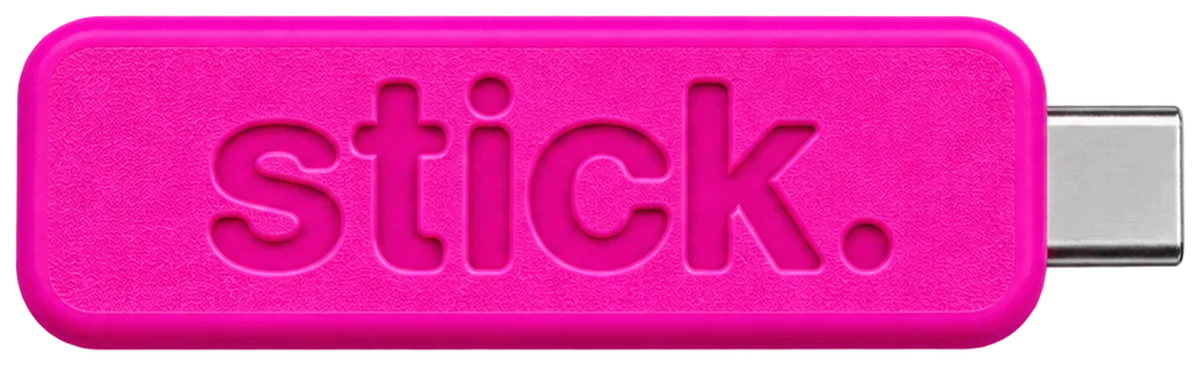
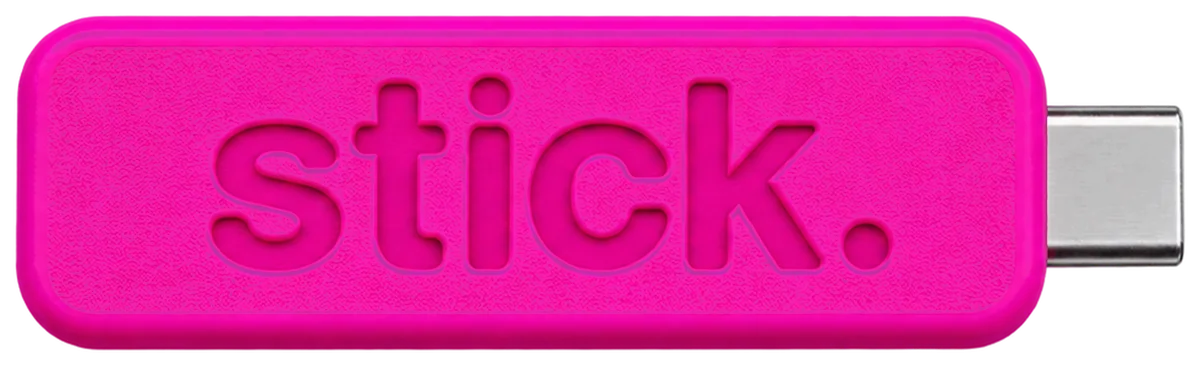
Darken the highlights on the pricing key photo
Re-renders stick-key.webp from the full-resolution cutout with the pink
body's highlights pulled down: pixels brighter than the body's ~77th
percentile of luminance keep 40% of their excess over that level (the
brightest spots go from 0.53 to about 0.41), with some saturation restored
so they read as deeper pink rather than washed out. Mid-tones and shadows
are untouched, so the embossed lettering keeps its depth; the grey plug is
excluded by hue and saturation, with a soft mask so there is no seam.
About 21% of the key's pixels change.

The image URL now carries a ?v= fingerprint like the CSS and JS, so the
edited photo isn't masked by a cached copy.

diff --git a/index.html b/index.html
@@ -182,7 +182,7 @@
     <!-- PRICING -->
     <section id="pricing" data-bg-section="pricing" class="band pricing-section">
       <div class="pricing-layout">
-        <img class="pricing-key" src="assets/stick-key.webp" width="1200" height="365" loading="lazy" decoding="async" data-reveal
+        <img class="pricing-key" src="assets/stick-key.webp?v=b2602285" width="1200" height="365" loading="lazy" decoding="async" data-reveal
              alt="The Stick key: a hot pink USB-C key with stick. embossed on it">
         <div class="pricing-card" data-reveal>
           <p class="pricing-price">$39.99 <span>plus shipping.</span></p>

diff --git a/README.md b/README.md
@@ -17,7 +17,8 @@ Then open <http://localhost:4173>.
 
 The stylesheet and script are linked as `styles.css?v=<hash>` and `app.js?v=<hash>`,
 where the hash is the first 8 characters of the file's MD5. Update it whenever either
-file changes, so browsers fetch the new copy instead of reusing a cached one.
+file changes, so browsers fetch the new copy instead of reusing a cached one. The key
+photo (`stick-key.webp`) is fingerprinted the same way.
 
 ## What's here
 
